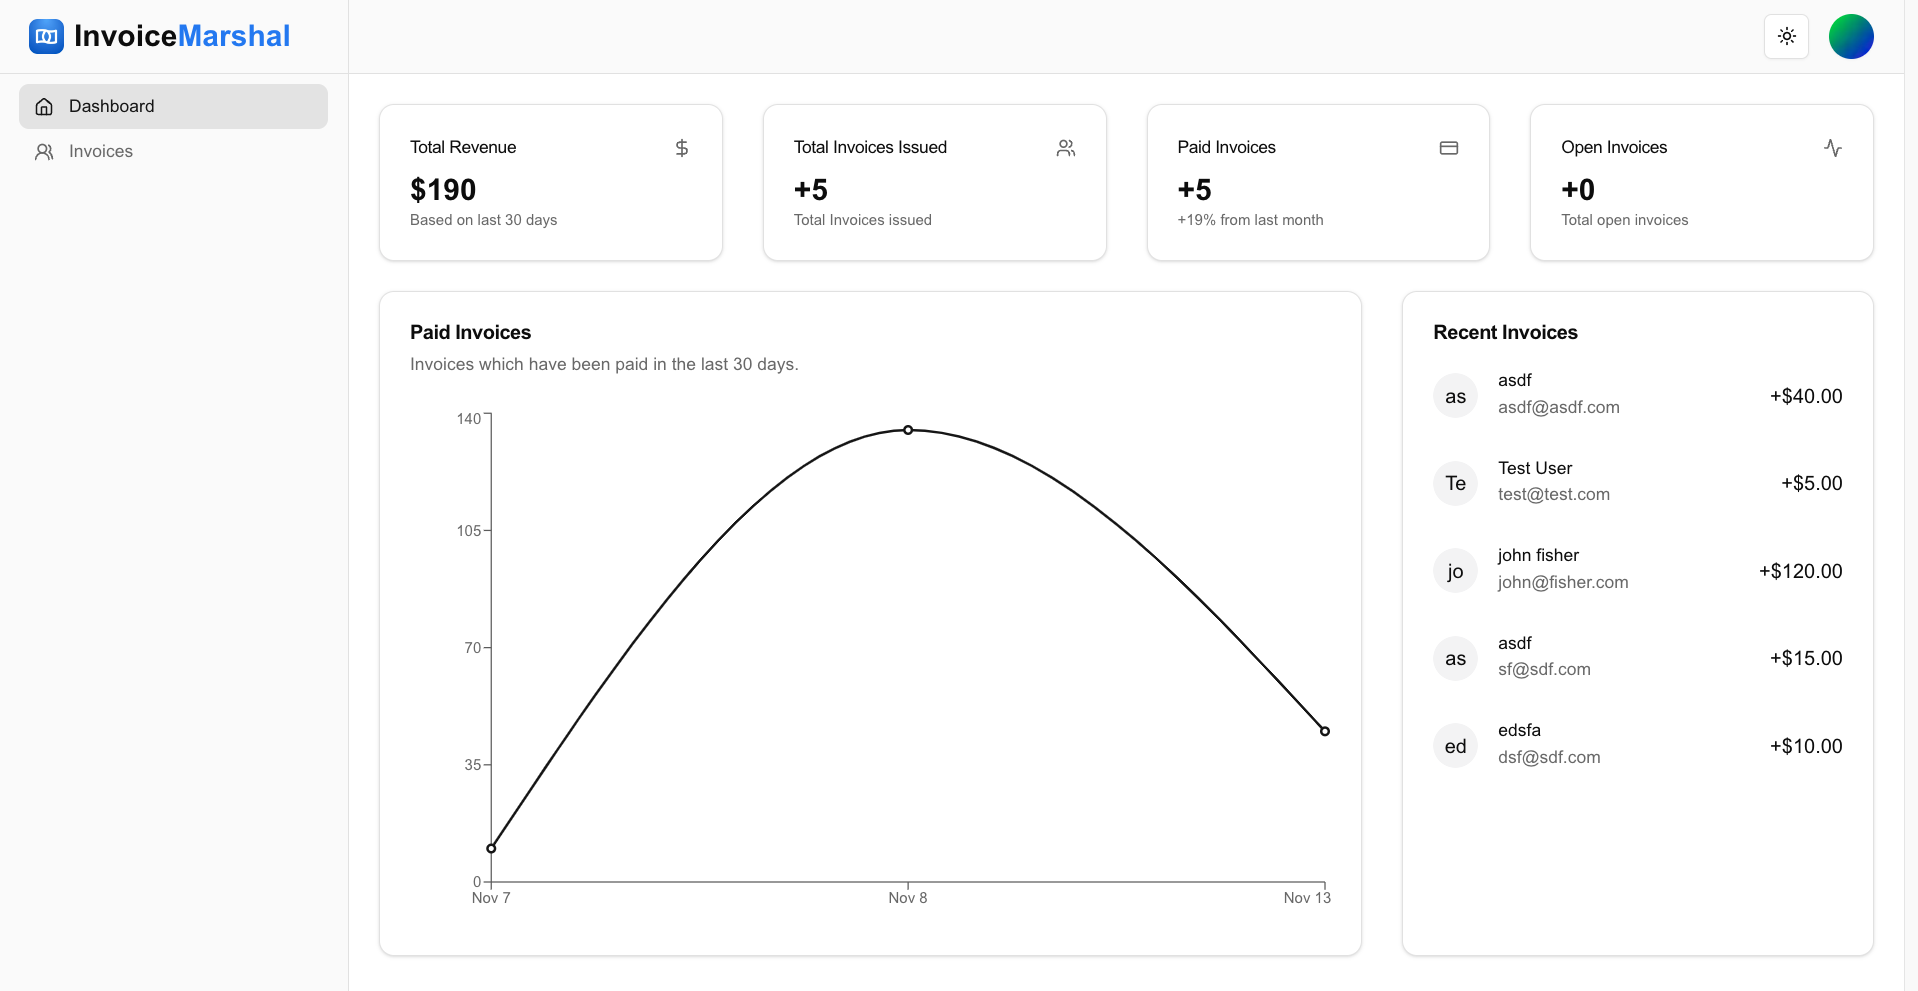
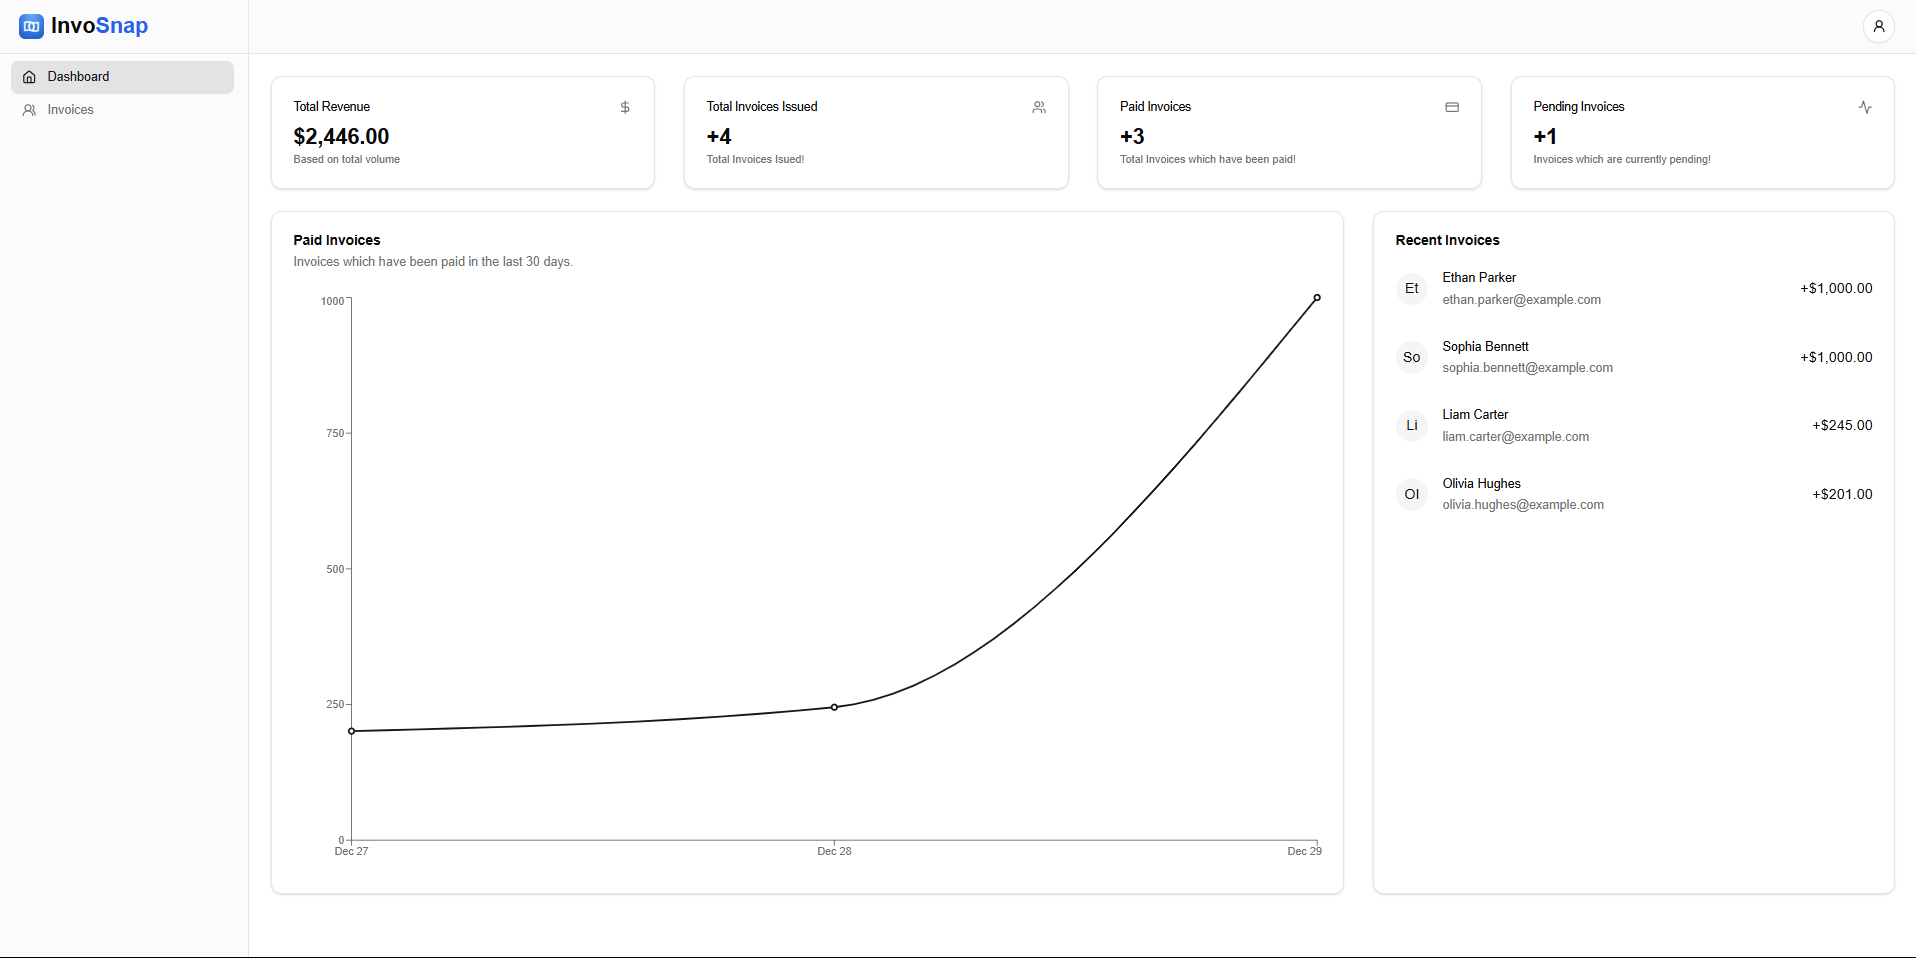
add marketing

diff --git a/app/page.tsx b/app/page.tsx
@@ -1,9 +1,111 @@
-import React from 'react'
+import Image from "next/image";
+import Link from "next/link";
 
-function page() {
+import HeroImage from "@/public/hero.png";
+import Logo from "@/public/logo.png";
+
+import { RainbowButton } from "@/components/ui/rainbow-button";
+
+export default function Home() {
   return (
-    <div>page</div>
-  )
-}
+    <main className="mx-auto max-w-7xl px-4 sm:px-6 lg:px-8">
+      \{" "}
+      <div className="flex items-center justify-between py-5">
+        <Link href="/" className="flex items-center gap-2">
+          <Image src={Logo} alt="Logo" className="size-10" />
+          <h3 className="text-3xl font-semibold">
+            Invo<span className="text-blue-500">Snap</span>
+          </h3>
+        </Link>
+        <Link href="/login">
+          <RainbowButton>Get Started</RainbowButton>
+        </Link>
+      </div>
+      <section className="relative flex flex-col items-center justify-center py-12 lg:py-20">
+        <div className="text-center">
+          <span className="rounded-full bg-primary/10 px-4 py-2 text-sm font-medium tracking-tight text-primary">
+            Introducing InvoSnap 1.0
+          </span>
+          <h1 className="mt-8 text-4xl font-semibold tracking-tighter sm:text-6xl md:text-7xl lg:text-8xl">
+            Invoicing made{" "}
+            <span className="-mt-2 block bg-gradient-to-l from-blue-500 via-teal-500 to-green-500 bg-clip-text text-transparent">
+              super easy!
+            </span>
+          </h1>
 
-export default page
+          <p className="mx-auto mt-4 max-w-xl text-muted-foreground lg:text-lg">
+            Creating Invoices can be a pain! We at InvoSnap make it super easy
+            for you to get paid in time!
+          </p>
+
+          <div className="mb-12 mt-7">
+            <Link href="/login">
+              <RainbowButton>Get Unlimted Access</RainbowButton>
+            </Link>
+          </div>
+        </div>
+
+        <div className="relative mx-auto mt-12 w-full items-center py-12">
+          <svg
+            className="absolute inset-0 -mt-24 blur-3xl"
+            style={{ zIndex: -1 }}
+            fill="none"
+            viewBox="0 0 400 400"
+            height="100%"
+            width="100%"
+            xmlns="http://www.w3.org/2000/svg"
+          >
+            <g clipPath="url(#clip0_10_20)">
+              <g filter="url(#filter0_f_10_20)">
+                <path
+                  d="M128.6 0H0V322.2L106.2 134.75L128.6 0Z"
+                  fill="#03FFE0"
+                ></path>
+                <path
+                  d="M0 322.2V400H240H320L106.2 134.75L0 322.2Z"
+                  fill="#7C87F8"
+                ></path>
+                <path
+                  d="M320 400H400V78.75L106.2 134.75L320 400Z"
+                  fill="#4C65E4"
+                ></path>
+                <path
+                  d="M400 0H128.6L106.2 134.75L400 78.75V0Z"
+                  fill="#043AFF"
+                ></path>
+              </g>
+            </g>
+            <defs>
+              <filter
+                colorInterpolationFilters="sRGB"
+                filterUnits="userSpaceOnUse"
+                height="720.666"
+                id="filter0_f_10_20"
+                width="720.666"
+                x="-160.333"
+                y="-160.333"
+              >
+                <feFlood floodOpacity="0" result="BackgroundImageFix"></feFlood>
+                <feBlend
+                  in="SourceGraphic"
+                  in2="BackgroundImageFix"
+                  mode="normal"
+                  result="shape"
+                ></feBlend>
+                <feGaussianBlur
+                  result="effect1_foregroundBlur_10_20"
+                  stdDeviation="80.1666"
+                ></feGaussianBlur>
+              </filter>
+            </defs>
+          </svg>
+          <Image
+            src={HeroImage}
+            alt="Hero image"
+            className="relative w-full rounded-lg border object-cover shadow-2xl lg:rounded-2xl"
+          />
+        </div>
+      </section>
+    </main>
+  );
+}

diff --git a/components/ui/rainbow-button.tsx b/components/ui/rainbow-button.tsx
@@ -1,0 +1,33 @@
+import React from "react";
+
+import { cn } from "@/lib/utils";
+interface RainbowButtonProps
+  extends React.ButtonHTMLAttributes<HTMLButtonElement> {}
+
+export function RainbowButton({
+  children,
+  className,
+  ...props
+}: RainbowButtonProps) {
+  return (
+    <button
+      className={cn(
+        "group relative inline-flex h-11 animate-rainbow cursor-pointer items-center justify-center rounded-xl border-0 bg-[length:200%] px-8 py-2 font-medium text-primary-foreground transition-colors [background-clip:padding-box,border-box,border-box] [background-origin:border-box] [border:calc(0.08*1rem)_solid_transparent] focus-visible:outline-none focus-visible:ring-1 focus-visible:ring-ring disabled:pointer-events-none disabled:opacity-50",
+
+        // before styles
+        "before:absolute before:bottom-[-20%] before:left-1/2 before:z-0 before:h-1/5 before:w-3/5 before:-translate-x-1/2 before:animate-rainbow before:bg-[linear-gradient(90deg,hsl(var(--color-1)),hsl(var(--color-5)),hsl(var(--color-3)),hsl(var(--color-4)),hsl(var(--color-2)))] before:[filter:blur(calc(0.8*1rem))]",
+
+        // light mode colors
+        "bg-[linear-gradient(#121213,#121213),linear-gradient(#121213_50%,rgba(18,18,19,0.6)_80%,rgba(18,18,19,0)),linear-gradient(90deg,hsl(var(--color-1)),hsl(var(--color-5)),hsl(var(--color-3)),hsl(var(--color-4)),hsl(var(--color-2)))]",
+
+        // dark mode colors
+        "dark:bg-[linear-gradient(#fff,#fff),linear-gradient(#fff_50%,rgba(255,255,255,0.6)_80%,rgba(0,0,0,0)),linear-gradient(90deg,hsl(var(--color-1)),hsl(var(--color-5)),hsl(var(--color-3)),hsl(var(--color-4)),hsl(var(--color-2)))]",
+
+        className,
+      )}
+      {...props}
+    >
+      {children}
+    </button>
+  );
+}

diff --git a/tailwind.config.ts b/tailwind.config.ts
@@ -49,12 +49,30 @@ export default {
   				'3': 'hsl(var(--chart-3))',
   				'4': 'hsl(var(--chart-4))',
   				'5': 'hsl(var(--chart-5))'
-  			}
+  			},
+  			'color-1': 'hsl(var(--color-1))',
+  			'color-2': 'hsl(var(--color-2))',
+  			'color-3': 'hsl(var(--color-3))',
+  			'color-4': 'hsl(var(--color-4))',
+  			'color-5': 'hsl(var(--color-5))'
   		},
   		borderRadius: {
   			lg: 'var(--radius)',
   			md: 'calc(var(--radius) - 2px)',
   			sm: 'calc(var(--radius) - 4px)'
+  		},
+  		animation: {
+  			rainbow: 'rainbow var(--speed, 2s) infinite linear'
+  		},
+  		keyframes: {
+  			rainbow: {
+  				'0%': {
+  					'background-position': '0%'
+  				},
+  				'100%': {
+  					'background-position': '200%'
+  				}
+  			}
   		}
   	}
   },

diff --git a/app/globals.css b/app/globals.css
@@ -33,6 +33,11 @@ body {
     --chart-4: 43 74% 66%;
     --chart-5: 27 87% 67%;
     --radius: 0.5rem;
+    --color-1: 0 100% 63%;
+    --color-2: 270 100% 63%;
+    --color-3: 210 100% 63%;
+    --color-4: 195 100% 63%;
+    --color-5: 90 100% 63%;
   }
   .dark {
     --background: 0 0% 3.9%;
@@ -59,6 +64,11 @@ body {
     --chart-3: 30 80% 55%;
     --chart-4: 280 65% 60%;
     --chart-5: 340 75% 55%;
+    --color-1: 0 100% 63%;
+    --color-2: 270 100% 63%;
+    --color-3: 210 100% 63%;
+    --color-4: 195 100% 63%;
+    --color-5: 90 100% 63%;
   }
 }
 

diff --git a/app/layout.tsx b/app/layout.tsx
@@ -14,8 +14,9 @@ const geistMono = Geist_Mono({
 });
 
 export const metadata: Metadata = {
-  title: "Create Next App",
-  description: "Generated by create next app",
+  title: "InvoSnap / Get Paid Faster",
+  description:
+    "Streamline your invoice creation, tracking, and management with ease.",
   icons: [{ rel: "icon", url: "/logo.png" }],
 };
 
